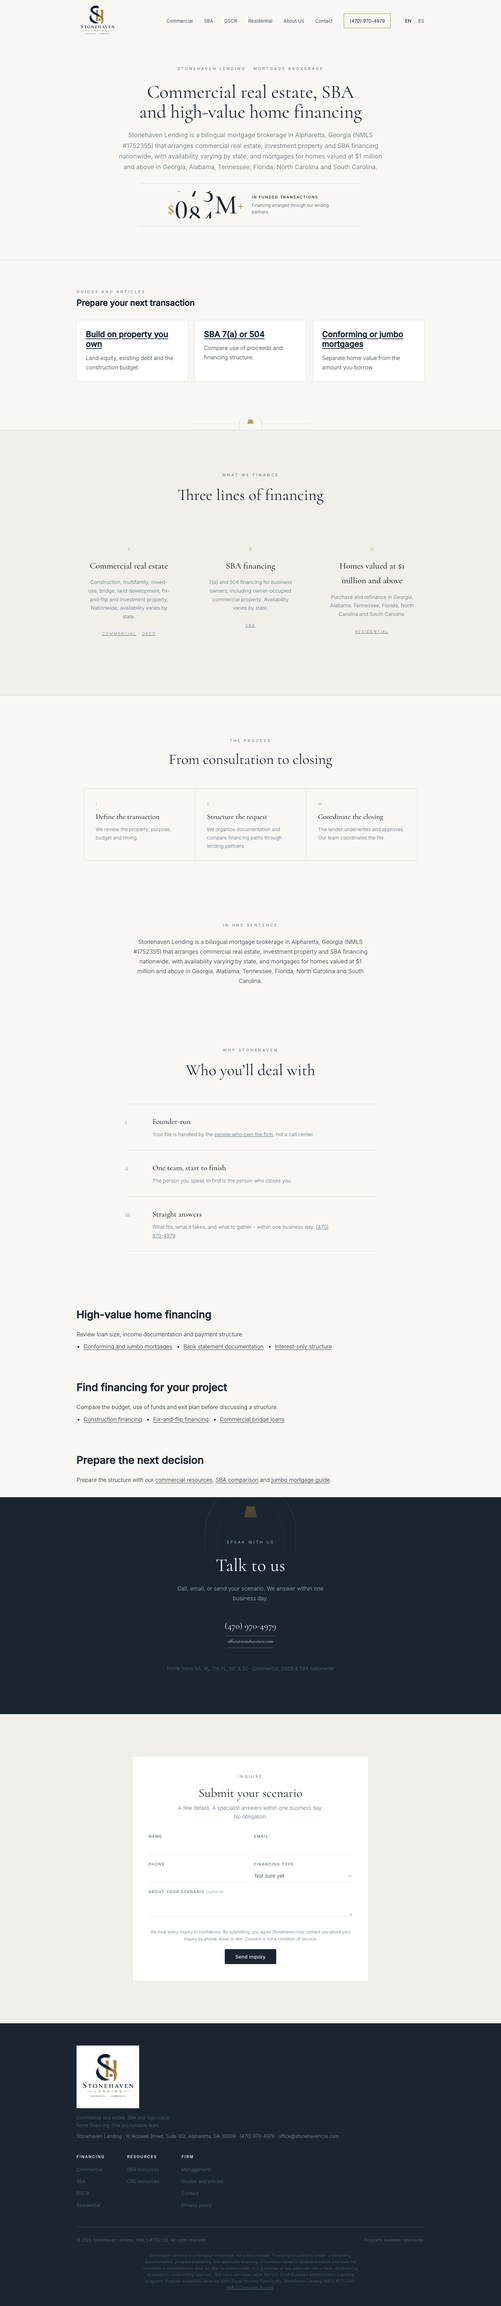
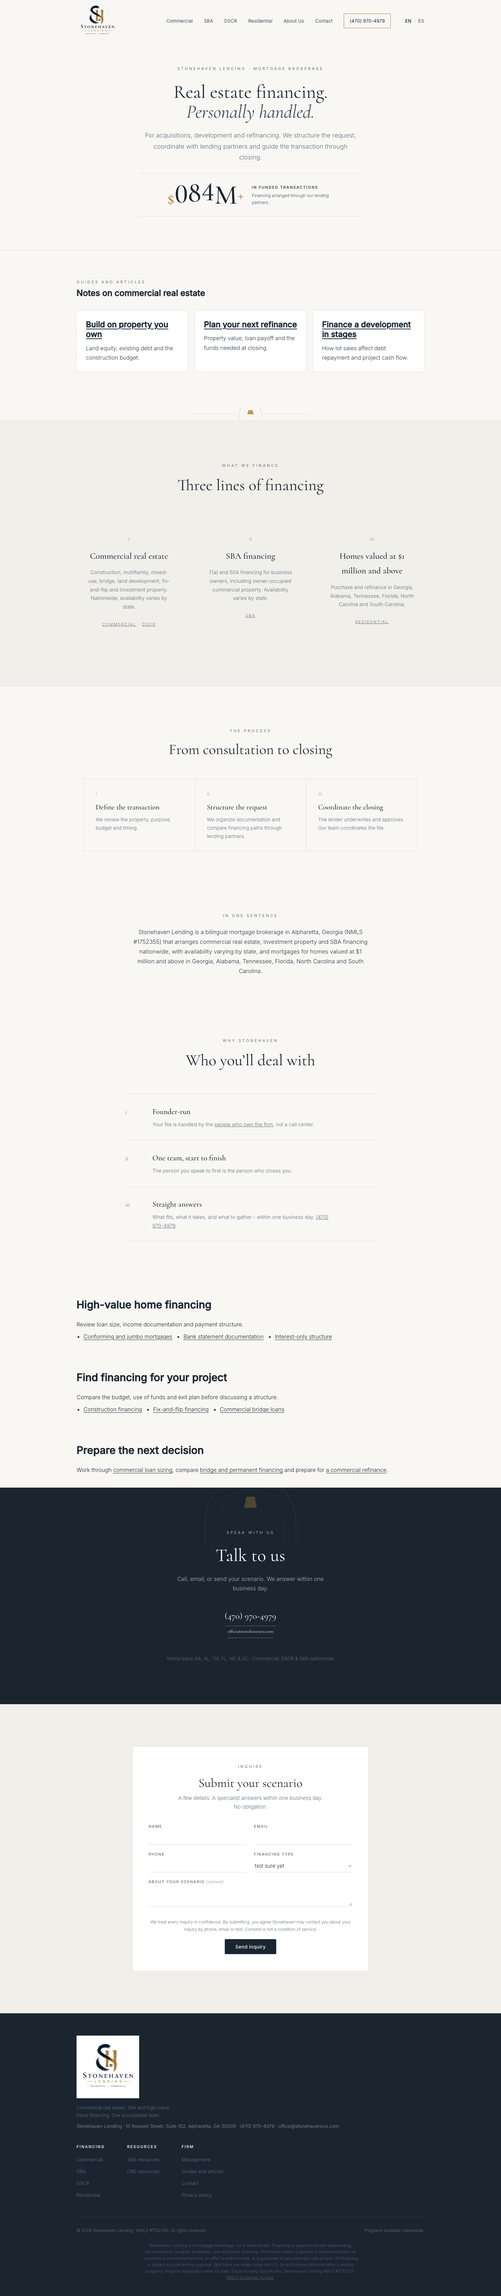
Refine homepage introduction and feature commercial real estate articles

diff --git a/es/index.html b/es/index.html
@@ -58,7 +58,7 @@
   </div>
 </header>
 <main>
-<section class="page-hero"><span class="eyebrow">Stonehaven Lending · Correduría hipotecaria</span><h1>Financiamiento comercial, SBA y para viviendas de alto valor</h1><p class="positioning-intro">Stonehaven Lending es una correduría hipotecaria bilingüe en Alpharetta, Georgia (NMLS #1752355) que tramita financiamiento inmobiliario comercial, para propiedades de inversión y SBA a nivel nacional, con disponibilidad que varía por estado, e hipotecas para viviendas valoradas en $1 millón o más en Georgia, Alabama, Tennessee, Florida, Carolina del Norte y Carolina del Sur.</p><div class="funded-volume" data-funded-volume><span class="funded-accessible">Más de 220 millones de dólares en operaciones financiadas.</span><div class="funded-value" aria-hidden="true"><span class="funded-currency">$</span><span class="funded-digit">2</span><span class="funded-digit">2</span><span class="funded-digit">0</span><span>M</span><span class="funded-plus">+</span></div><div class="funded-copy"><strong>en operaciones financiadas</strong><small>Financiamiento gestionado a través de nuestros socios prestamistas.</small></div></div></section><section class="tight seo-resources positioning-guides"><div class="wrap"><span class="eyebrow">Guías y artículos</span><h2>Prepare su próxima transacción</h2><div class="seo-resource-grid"><article><h3><a href="/es/blog/construction-loan-property-already-owned-mortgage-payoff">Construir en propiedad propia</a></h3><p>Patrimonio, saldo existente y presupuesto de obra.</p></article><article><h3><a href="/resources/sba-7a-vs-504">SBA 7(a) o 504</a></h3><p>Compare el uso de los fondos y la estructura.</p></article><article><h3><a href="/es/residential/jumbo-loans">Hipotecas conformes o jumbo</a></h3><p>Distinga el valor de la vivienda del monto del préstamo.</p></article></div></div></section>
+<section class="page-hero home-intro"><span class="eyebrow">Stonehaven Lending · Correduría hipotecaria</span><h1>Financiamiento inmobiliario.<br><em>Atención personal.</em></h1><p class="positioning-intro">Para adquisiciones, desarrollo y refinanciamiento. Estructuramos la solicitud, coordinamos con los prestamistas y acompañamos la operación hasta el cierre.</p><div class="funded-volume" data-funded-volume><span class="funded-accessible">Más de 220 millones de dólares en operaciones financiadas.</span><div class="funded-value" aria-hidden="true"><span class="funded-currency">$</span><span class="funded-digit">2</span><span class="funded-digit">2</span><span class="funded-digit">0</span><span>M</span><span class="funded-plus">+</span></div><div class="funded-copy"><strong>en operaciones financiadas</strong><small>Financiamiento gestionado a través de nuestros socios prestamistas.</small></div></div></section><section class="tight seo-resources positioning-guides"><div class="wrap"><span class="eyebrow">Guías y artículos</span><h2>Guías de financiamiento comercial</h2><div class="seo-resource-grid"><article><h3><a href="/es/blog/construction-loan-property-already-owned-mortgage-payoff">Construir en propiedad propia</a></h3><p>Patrimonio, deuda existente y presupuesto de obra.</p></article><article><h3><a href="/es/blog/commercial-refinance-cash-in-gap">Prepare el próximo refinanciamiento</a></h3><p>Valor del inmueble, saldo pendiente y fondos al cierre.</p></article><article><h3><a href="/es/blog/subdivision-loan-lot-release-prices">Financiar un desarrollo por etapas</a></h3><p>Cómo la venta de lotes afecta la deuda y el flujo de efectivo.</p></article></div></div></section>
 <div class="wrap"><div class="arch-rule reveal"><span class="l"></span>
 <svg width="78" height="34" viewBox="0 0 78 34" fill="none" aria-hidden="true"><path d="M6 34 V20 A33 33 0 0 1 72 20 V34" stroke="#CDD6E0" stroke-width="1.2"/><path d="M33 5 L45 5 L48 17 L30 17 Z" fill="#B08230" opacity=".8"/></svg>
 <span class="l"></span></div></div><section class="practice" id="lines"><div class="wrap"><div class="head"><span class="eyebrow">Qué financiamos</span><h2>Tres líneas de financiamiento</h2></div><div class="pillars positioning-pillars"><article class="pillar"><div class="pn">i</div><h3>Financiamiento inmobiliario comercial</h3><p>Construcción, multifamiliar, uso mixto, préstamos puente, desarrollo de terrenos, renovación y reventa y propiedades de inversión. A nivel nacional; la disponibilidad varía por estado.</p><div class="more"><a href="/es/commercial">Comercial</a> · <a href="/es/dscr">DSCR</a></div></article><article class="pillar"><div class="pn">ii</div><h3>Financiamiento SBA</h3><p>Financiamiento 7(a) y 504 para propietarios de negocios, incluidos inmuebles comerciales ocupados por el negocio. La disponibilidad varía por estado.</p><div class="more"><a href="/es/sba">SBA</a></div></article><article class="pillar"><div class="pn">iii</div><h3>Viviendas de $1 millón o más</h3><p>Compra y refinanciamiento en Georgia, Alabama, Tennessee, Florida, Carolina del Norte y Carolina del Sur.</p><div class="more"><a href="/es/residential">Residencial</a></div></article></div></div></section><section class="uses"><div class="wrap"><div class="head"><span class="eyebrow">El proceso</span><h2>De la consulta al cierre</h2></div><div class="use-grid"><div class="use"><div class="un">i</div><h3>Definir la transacción</h3><p>Revisamos el inmueble, el objetivo, el presupuesto y el calendario.</p></div><div class="use"><div class="un">ii</div><h3>Estructurar la solicitud</h3><p>Organizamos la documentación y comparamos opciones mediante prestamistas.</p></div><div class="use"><div class="un">iii</div><h3>Coordinar el cierre</h3><p>El prestamista evalúa y aprueba. Nuestro equipo coordina el expediente.</p></div></div></div></section>
@@ -67,7 +67,7 @@
 
 <!-- SEARCH-NAV:PROGRAMS:START --><section class="wrap search-topics"><h2>Financiamiento de viviendas de alto valor</h2><p>Revise el monto del préstamo, la documentación de ingresos y la estructura de pagos.</p><ul class="search-program-links"><li><a href="/es/residential/jumbo-loans">Hipotecas conformes y jumbo</a></li><li><a href="/es/bank-statement-loans">Documentación con estados de cuenta</a></li><li><a href="/es/interest-only-loans">Estructura de solo intereses</a></li></ul></section><!-- SEARCH-NAV:PROGRAMS:END -->
 <!-- SEARCH-NAV:CRE:START --><section class="wrap search-topics"><h2>Encuentre financiamiento para su proyecto</h2><p>Compare el presupuesto, el uso de los fondos y el plan de salida antes de discutir una estructura.</p><ul class="search-program-links"><li><a href="/es/commercial/construction-loans">Financiamiento para construcción</a></li><li><a href="/es/commercial/fix-and-flip">Capital para renovación y reventa</a></li><li><a href="/es/commercial/bridge-loans">Préstamos puente comerciales</a></li></ul></section><!-- SEARCH-NAV:CRE:END -->
-<!-- SEARCH-NAV:CONTEXT:START --><section class="wrap search-topics search-context"><h2>Prepare la siguiente decisión</h2><p>Prepare la estructura con las <a href="/resources/commercial">guías comerciales (en inglés)</a>, la <a href="/resources/sba-7a-vs-504">comparación SBA (en inglés)</a> y la <a href="/es/residential/jumbo-loans">guía de hipotecas jumbo</a>.</p></section><!-- SEARCH-NAV:CONTEXT:END -->
+<!-- SEARCH-NAV:CONTEXT:START --><section class="wrap search-topics search-context"><h2>Prepare la siguiente decisión</h2><p>Revise el <a href="/resources/how-lenders-size-commercial-loans">cálculo del préstamo comercial (en inglés)</a>, la <a href="/resources/bridge-vs-permanent-financing">comparación entre financiamiento puente y permanente (en inglés)</a> y la <a href="/resources/commercial-refinance-guide">guía de refinanciamiento comercial (en inglés)</a>.</p></section><!-- SEARCH-NAV:CONTEXT:END -->
 </main>
 <section class="contact-band">
   <svg class="arch-deco" width="340" height="170" viewBox="0 0 340 170" fill="none" aria-hidden="true"><path d="M40 170 V96 A130 130 0 0 1 300 96 V170" stroke="#3A4A5A" stroke-width="1.2"/><path d="M76 170 V100 A94 94 0 0 1 264 100 V170" stroke="#3A4A5A" stroke-width="1" opacity=".6"/><path d="M158 26 L182 26 L188 58 L152 58 Z" fill="#B08230" opacity=".7"/></svg>

diff --git a/index.html b/index.html
@@ -60,7 +60,7 @@
   </div>
 </header>
 <main>
-<section class="page-hero"><span class="eyebrow">Stonehaven Lending · Mortgage brokerage</span><h1>Commercial real estate, SBA and high-value home financing</h1><p class="positioning-intro">Stonehaven Lending is a bilingual mortgage brokerage in Alpharetta, Georgia (NMLS #1752355) that arranges commercial real estate, investment property and SBA financing nationwide, with availability varying by state, and mortgages for homes valued at $1 million and above in Georgia, Alabama, Tennessee, Florida, North Carolina and South Carolina.</p><div class="funded-volume" data-funded-volume><span class="funded-accessible">Over 220 million dollars in funded transactions.</span><div class="funded-value" aria-hidden="true"><span class="funded-currency">$</span><span class="funded-digit">2</span><span class="funded-digit">2</span><span class="funded-digit">0</span><span>M</span><span class="funded-plus">+</span></div><div class="funded-copy"><strong>in funded transactions</strong><small>Financing arranged through our lending partners.</small></div></div></section><section class="tight seo-resources positioning-guides"><div class="wrap"><span class="eyebrow">Guides and articles</span><h2>Prepare your next transaction</h2><div class="seo-resource-grid"><article><h3><a href="/blog/construction-loan-property-already-owned-mortgage-payoff">Build on property you own</a></h3><p>Land equity, existing debt and the construction budget.</p></article><article><h3><a href="/resources/sba-7a-vs-504">SBA 7(a) or 504</a></h3><p>Compare use of proceeds and financing structure.</p></article><article><h3><a href="/residential/jumbo-loans">Conforming or jumbo mortgages</a></h3><p>Separate home value from the amount you borrow.</p></article></div></div></section>
+<section class="page-hero home-intro"><span class="eyebrow">Stonehaven Lending · Mortgage brokerage</span><h1>Real estate financing.<br><em>Personally handled.</em></h1><p class="positioning-intro">For acquisitions, development and refinancing. We structure the request, coordinate with lending partners and guide the transaction through closing.</p><div class="funded-volume" data-funded-volume><span class="funded-accessible">Over 220 million dollars in funded transactions.</span><div class="funded-value" aria-hidden="true"><span class="funded-currency">$</span><span class="funded-digit">2</span><span class="funded-digit">2</span><span class="funded-digit">0</span><span>M</span><span class="funded-plus">+</span></div><div class="funded-copy"><strong>in funded transactions</strong><small>Financing arranged through our lending partners.</small></div></div></section><section class="tight seo-resources positioning-guides"><div class="wrap"><span class="eyebrow">Guides and articles</span><h2>Notes on commercial real estate</h2><div class="seo-resource-grid"><article><h3><a href="/blog/construction-loan-property-already-owned-mortgage-payoff">Build on property you own</a></h3><p>Land equity, existing debt and the construction budget.</p></article><article><h3><a href="/blog/commercial-refinance-cash-in-gap">Plan your next refinance</a></h3><p>Property value, loan payoff and the funds needed at closing.</p></article><article><h3><a href="/blog/subdivision-loan-lot-release-prices">Finance a development in stages</a></h3><p>How lot sales affect debt repayment and project cash flow.</p></article></div></div></section>
 <div class="wrap"><div class="arch-rule reveal"><span class="l"></span>
 <svg width="78" height="34" viewBox="0 0 78 34" fill="none" aria-hidden="true"><path d="M6 34 V20 A33 33 0 0 1 72 20 V34" stroke="#CDD6E0" stroke-width="1.2"/><path d="M33 5 L45 5 L48 17 L30 17 Z" fill="#B08230" opacity=".8"/></svg>
 <span class="l"></span></div></div><section class="practice" id="lines"><div class="wrap"><div class="head"><span class="eyebrow">What we finance</span><h2>Three lines of financing</h2></div><div class="pillars positioning-pillars"><article class="pillar"><div class="pn">i</div><h3>Commercial real estate</h3><p>Construction, multifamily, mixed-use, bridge, land development, fix-and-flip and investment property. Nationwide, availability varies by state.</p><div class="more"><a href="/commercial">Commercial</a> · <a href="/dscr">DSCR</a></div></article><article class="pillar"><div class="pn">ii</div><h3>SBA financing</h3><p>7(a) and 504 financing for business owners, including owner-occupied commercial property. Availability varies by state.</p><div class="more"><a href="/sba">SBA</a></div></article><article class="pillar"><div class="pn">iii</div><h3>Homes valued at $1 million and above</h3><p>Purchase and refinance in Georgia, Alabama, Tennessee, Florida, North Carolina and South Carolina.</p><div class="more"><a href="/residential">Residential</a></div></article></div></div></section><section class="uses"><div class="wrap"><div class="head"><span class="eyebrow">The process</span><h2>From consultation to closing</h2></div><div class="use-grid"><div class="use"><div class="un">i</div><h3>Define the transaction</h3><p>We review the property, purpose, budget and timing.</p></div><div class="use"><div class="un">ii</div><h3>Structure the request</h3><p>We organize documentation and compare financing paths through lending partners.</p></div><div class="use"><div class="un">iii</div><h3>Coordinate the closing</h3><p>The lender underwrites and approves. Our team coordinates the file.</p></div></div></div></section>
@@ -69,7 +69,7 @@
 
 <!-- SEARCH-NAV:PROGRAMS:START --><section class="wrap search-topics"><h2>High-value home financing</h2><p>Review loan size, income documentation and payment structure.</p><ul class="search-program-links"><li><a href="/residential/jumbo-loans">Conforming and jumbo mortgages</a></li><li><a href="/bank-statement-loans">Bank statement documentation</a></li><li><a href="/interest-only-loans">Interest-only structure</a></li></ul></section><!-- SEARCH-NAV:PROGRAMS:END -->
 <!-- SEARCH-NAV:CRE:START --><section class="wrap search-topics"><h2>Find financing for your project</h2><p>Compare the budget, use of funds and exit plan before discussing a structure.</p><ul class="search-program-links"><li><a href="/commercial/construction-loans">Construction financing</a></li><li><a href="/commercial/fix-and-flip">Fix-and-flip financing</a></li><li><a href="/commercial/bridge-loans">Commercial bridge loans</a></li></ul></section><!-- SEARCH-NAV:CRE:END -->
-<!-- SEARCH-NAV:CONTEXT:START --><section class="wrap search-topics search-context"><h2>Prepare the next decision</h2><p>Prepare the structure with our <a href="/resources/commercial">commercial resources</a>, <a href="/resources/sba-7a-vs-504">SBA comparison</a> and <a href="/residential/jumbo-loans">jumbo mortgage guide</a>.</p></section><!-- SEARCH-NAV:CONTEXT:END -->
+<!-- SEARCH-NAV:CONTEXT:START --><section class="wrap search-topics search-context"><h2>Prepare the next decision</h2><p>Work through <a href="/resources/how-lenders-size-commercial-loans">commercial loan sizing</a>, compare <a href="/resources/bridge-vs-permanent-financing">bridge and permanent financing</a> and prepare for <a href="/resources/commercial-refinance-guide">a commercial refinance</a>.</p></section><!-- SEARCH-NAV:CONTEXT:END -->
 </main>
 <section class="contact-band">
   <svg class="arch-deco" width="340" height="170" viewBox="0 0 340 170" fill="none" aria-hidden="true"><path d="M40 170 V96 A130 130 0 0 1 300 96 V170" stroke="#3A4A5A" stroke-width="1.2"/><path d="M76 170 V100 A94 94 0 0 1 264 100 V170" stroke="#3A4A5A" stroke-width="1" opacity=".6"/><path d="M158 26 L182 26 L188 58 L152 58 Z" fill="#B08230" opacity=".7"/></svg>

diff --git a/scripts/positioning-templates/es-home.html b/scripts/positioning-templates/es-home.html
@@ -58,7 +58,7 @@
   </div>
 </header>
 <main>
-<section class="page-hero"><span class="eyebrow">Stonehaven Lending · Correduría hipotecaria</span><h1>Financiamiento comercial, SBA y para viviendas de alto valor</h1><p class="positioning-intro">Stonehaven Lending es una correduría hipotecaria bilingüe en Alpharetta, Georgia (NMLS #1752355) que tramita financiamiento inmobiliario comercial, para propiedades de inversión y SBA a nivel nacional, con disponibilidad que varía por estado, e hipotecas para viviendas valoradas en $1 millón o más en Georgia, Alabama, Tennessee, Florida, Carolina del Norte y Carolina del Sur.</p><div class="funded-volume" data-funded-volume><span class="funded-accessible">Más de 220 millones de dólares en operaciones financiadas.</span><div class="funded-value" aria-hidden="true"><span class="funded-currency">$</span><span class="funded-digit">2</span><span class="funded-digit">2</span><span class="funded-digit">0</span><span>M</span><span class="funded-plus">+</span></div><div class="funded-copy"><strong>en operaciones financiadas</strong><small>Financiamiento gestionado a través de nuestros socios prestamistas.</small></div></div></section><section class="tight seo-resources positioning-guides"><div class="wrap"><span class="eyebrow">Guías y artículos</span><h2>Prepare su próxima transacción</h2><div class="seo-resource-grid"><article><h3><a href="/es/blog/construction-loan-property-already-owned-mortgage-payoff">Construir en propiedad propia</a></h3><p>Patrimonio, saldo existente y presupuesto de obra.</p></article><article><h3><a href="/resources/sba-7a-vs-504">SBA 7(a) o 504</a></h3><p>Compare el uso de los fondos y la estructura.</p></article><article><h3><a href="/es/residential/jumbo-loans">Hipotecas conformes o jumbo</a></h3><p>Distinga el valor de la vivienda del monto del préstamo.</p></article></div></div></section>
+<section class="page-hero home-intro"><span class="eyebrow">Stonehaven Lending · Correduría hipotecaria</span><h1>Financiamiento inmobiliario.<br><em>Atención personal.</em></h1><p class="positioning-intro">Para adquisiciones, desarrollo y refinanciamiento. Estructuramos la solicitud, coordinamos con los prestamistas y acompañamos la operación hasta el cierre.</p><div class="funded-volume" data-funded-volume><span class="funded-accessible">Más de 220 millones de dólares en operaciones financiadas.</span><div class="funded-value" aria-hidden="true"><span class="funded-currency">$</span><span class="funded-digit">2</span><span class="funded-digit">2</span><span class="funded-digit">0</span><span>M</span><span class="funded-plus">+</span></div><div class="funded-copy"><strong>en operaciones financiadas</strong><small>Financiamiento gestionado a través de nuestros socios prestamistas.</small></div></div></section><section class="tight seo-resources positioning-guides"><div class="wrap"><span class="eyebrow">Guías y artículos</span><h2>Guías de financiamiento comercial</h2><div class="seo-resource-grid"><article><h3><a href="/es/blog/construction-loan-property-already-owned-mortgage-payoff">Construir en propiedad propia</a></h3><p>Patrimonio, deuda existente y presupuesto de obra.</p></article><article><h3><a href="/es/blog/commercial-refinance-cash-in-gap">Prepare el próximo refinanciamiento</a></h3><p>Valor del inmueble, saldo pendiente y fondos al cierre.</p></article><article><h3><a href="/es/blog/subdivision-loan-lot-release-prices">Financiar un desarrollo por etapas</a></h3><p>Cómo la venta de lotes afecta la deuda y el flujo de efectivo.</p></article></div></div></section>
 <div class="wrap"><div class="arch-rule reveal"><span class="l"></span>
 <svg width="78" height="34" viewBox="0 0 78 34" fill="none" aria-hidden="true"><path d="M6 34 V20 A33 33 0 0 1 72 20 V34" stroke="#CDD6E0" stroke-width="1.2"/><path d="M33 5 L45 5 L48 17 L30 17 Z" fill="#B08230" opacity=".8"/></svg>
 <span class="l"></span></div></div><section class="practice" id="lines"><div class="wrap"><div class="head"><span class="eyebrow">Qué financiamos</span><h2>Tres líneas de financiamiento</h2></div><div class="pillars positioning-pillars"><article class="pillar"><div class="pn">i</div><h3>Financiamiento inmobiliario comercial</h3><p>Construcción, multifamiliar, uso mixto, préstamos puente, desarrollo de terrenos, renovación y reventa y propiedades de inversión. A nivel nacional; la disponibilidad varía por estado.</p><div class="more"><a href="/es/commercial">Comercial</a> · <a href="/es/dscr">DSCR</a></div></article><article class="pillar"><div class="pn">ii</div><h3>Financiamiento SBA</h3><p>Financiamiento 7(a) y 504 para propietarios de negocios, incluidos inmuebles comerciales ocupados por el negocio. La disponibilidad varía por estado.</p><div class="more"><a href="/es/sba">SBA</a></div></article><article class="pillar"><div class="pn">iii</div><h3>Viviendas de $1 millón o más</h3><p>Compra y refinanciamiento en Georgia, Alabama, Tennessee, Florida, Carolina del Norte y Carolina del Sur.</p><div class="more"><a href="/es/residential">Residencial</a></div></article></div></div></section><section class="uses"><div class="wrap"><div class="head"><span class="eyebrow">El proceso</span><h2>De la consulta al cierre</h2></div><div class="use-grid"><div class="use"><div class="un">i</div><h3>Definir la transacción</h3><p>Revisamos el inmueble, el objetivo, el presupuesto y el calendario.</p></div><div class="use"><div class="un">ii</div><h3>Estructurar la solicitud</h3><p>Organizamos la documentación y comparamos opciones mediante prestamistas.</p></div><div class="use"><div class="un">iii</div><h3>Coordinar el cierre</h3><p>El prestamista evalúa y aprueba. Nuestro equipo coordina el expediente.</p></div></div></div></section>

diff --git a/scripts/positioning-templates/en-home.html b/scripts/positioning-templates/en-home.html
@@ -60,7 +60,7 @@
   </div>
 </header>
 <main>
-<section class="page-hero"><span class="eyebrow">Stonehaven Lending · Mortgage brokerage</span><h1>Commercial real estate, SBA and high-value home financing</h1><p class="positioning-intro">Stonehaven Lending is a bilingual mortgage brokerage in Alpharetta, Georgia (NMLS #1752355) that arranges commercial real estate, investment property and SBA financing nationwide, with availability varying by state, and mortgages for homes valued at $1 million and above in Georgia, Alabama, Tennessee, Florida, North Carolina and South Carolina.</p><div class="funded-volume" data-funded-volume><span class="funded-accessible">Over 220 million dollars in funded transactions.</span><div class="funded-value" aria-hidden="true"><span class="funded-currency">$</span><span class="funded-digit">2</span><span class="funded-digit">2</span><span class="funded-digit">0</span><span>M</span><span class="funded-plus">+</span></div><div class="funded-copy"><strong>in funded transactions</strong><small>Financing arranged through our lending partners.</small></div></div></section><section class="tight seo-resources positioning-guides"><div class="wrap"><span class="eyebrow">Guides and articles</span><h2>Prepare your next transaction</h2><div class="seo-resource-grid"><article><h3><a href="/blog/construction-loan-property-already-owned-mortgage-payoff">Build on property you own</a></h3><p>Land equity, existing debt and the construction budget.</p></article><article><h3><a href="/resources/sba-7a-vs-504">SBA 7(a) or 504</a></h3><p>Compare use of proceeds and financing structure.</p></article><article><h3><a href="/residential/jumbo-loans">Conforming or jumbo mortgages</a></h3><p>Separate home value from the amount you borrow.</p></article></div></div></section>
+<section class="page-hero home-intro"><span class="eyebrow">Stonehaven Lending · Mortgage brokerage</span><h1>Real estate financing.<br><em>Personally handled.</em></h1><p class="positioning-intro">For acquisitions, development and refinancing. We structure the request, coordinate with lending partners and guide the transaction through closing.</p><div class="funded-volume" data-funded-volume><span class="funded-accessible">Over 220 million dollars in funded transactions.</span><div class="funded-value" aria-hidden="true"><span class="funded-currency">$</span><span class="funded-digit">2</span><span class="funded-digit">2</span><span class="funded-digit">0</span><span>M</span><span class="funded-plus">+</span></div><div class="funded-copy"><strong>in funded transactions</strong><small>Financing arranged through our lending partners.</small></div></div></section><section class="tight seo-resources positioning-guides"><div class="wrap"><span class="eyebrow">Guides and articles</span><h2>Notes on commercial real estate</h2><div class="seo-resource-grid"><article><h3><a href="/blog/construction-loan-property-already-owned-mortgage-payoff">Build on property you own</a></h3><p>Land equity, existing debt and the construction budget.</p></article><article><h3><a href="/blog/commercial-refinance-cash-in-gap">Plan your next refinance</a></h3><p>Property value, loan payoff and the funds needed at closing.</p></article><article><h3><a href="/blog/subdivision-loan-lot-release-prices">Finance a development in stages</a></h3><p>How lot sales affect debt repayment and project cash flow.</p></article></div></div></section>
 <div class="wrap"><div class="arch-rule reveal"><span class="l"></span>
 <svg width="78" height="34" viewBox="0 0 78 34" fill="none" aria-hidden="true"><path d="M6 34 V20 A33 33 0 0 1 72 20 V34" stroke="#CDD6E0" stroke-width="1.2"/><path d="M33 5 L45 5 L48 17 L30 17 Z" fill="#B08230" opacity=".8"/></svg>
 <span class="l"></span></div></div><section class="practice" id="lines"><div class="wrap"><div class="head"><span class="eyebrow">What we finance</span><h2>Three lines of financing</h2></div><div class="pillars positioning-pillars"><article class="pillar"><div class="pn">i</div><h3>Commercial real estate</h3><p>Construction, multifamily, mixed-use, bridge, land development, fix-and-flip and investment property. Nationwide, availability varies by state.</p><div class="more"><a href="/commercial">Commercial</a> · <a href="/dscr">DSCR</a></div></article><article class="pillar"><div class="pn">ii</div><h3>SBA financing</h3><p>7(a) and 504 financing for business owners, including owner-occupied commercial property. Availability varies by state.</p><div class="more"><a href="/sba">SBA</a></div></article><article class="pillar"><div class="pn">iii</div><h3>Homes valued at $1 million and above</h3><p>Purchase and refinance in Georgia, Alabama, Tennessee, Florida, North Carolina and South Carolina.</p><div class="more"><a href="/residential">Residential</a></div></article></div></div></section><section class="uses"><div class="wrap"><div class="head"><span class="eyebrow">The process</span><h2>From consultation to closing</h2></div><div class="use-grid"><div class="use"><div class="un">i</div><h3>Define the transaction</h3><p>We review the property, purpose, budget and timing.</p></div><div class="use"><div class="un">ii</div><h3>Structure the request</h3><p>We organize documentation and compare financing paths through lending partners.</p></div><div class="use"><div class="un">iii</div><h3>Coordinate the closing</h3><p>The lender underwrites and approves. Our team coordinates the file.</p></div></div></div></section>

diff --git a/styles.css b/styles.css
@@ -384,3 +384,7 @@ header.nav .brand img{width:120px;height:120px;object-fit:contain;mix-blend-mode
 
 .positioning-guides .seo-resource-grid{grid-template-columns:repeat(3,minmax(0,1fr))}
 @media(max-width:760px){.positioning-guides .seo-resource-grid{grid-template-columns:1fr}}
+
+/* Owner refinement: a quieter homepage introduction. */
+.home-intro h1{max-width:900px;margin-left:auto;margin-right:auto;text-wrap:balance}
+.page-hero.home-intro p.positioning-intro{max-width:660px;line-height:1.75}

diff --git a/scripts/seo_contextual_links.py b/scripts/seo_contextual_links.py
@@ -98,8 +98,8 @@ def reading_paths(pages, local, es):
         return link(pages, path, label)
     paragraphs = []
     if local == '/':
-        paragraphs.append(('Prepare la estructura con las '+a('/resources/commercial', 'commercial resources', 'guías comerciales')+', la '+a('/resources/sba-7a-vs-504', 'SBA comparison', 'comparación SBA')+' y la '+a('/residential/jumbo-loans', 'jumbo mortgage guide', 'guía de hipotecas jumbo')+'.') if es else
-                          'Prepare the structure with our '+a('/resources/commercial', 'commercial resources')+', '+a('/resources/sba-7a-vs-504', 'SBA comparison')+' and '+a('/residential/jumbo-loans', 'jumbo mortgage guide')+'.')
+        paragraphs.append(('Revise el '+a('/resources/how-lenders-size-commercial-loans', 'commercial loan sizing guide', 'cálculo del préstamo comercial')+', la '+a('/resources/bridge-vs-permanent-financing', 'bridge and permanent financing comparison', 'comparación entre financiamiento puente y permanente')+' y la '+a('/resources/commercial-refinance-guide', 'commercial refinance guide', 'guía de refinanciamiento comercial')+'.') if es else
+                          'Work through '+a('/resources/how-lenders-size-commercial-loans', 'commercial loan sizing')+', compare '+a('/resources/bridge-vs-permanent-financing', 'bridge and permanent financing')+' and prepare for '+a('/resources/commercial-refinance-guide', 'a commercial refinance')+'.')
     heading = 'Prepare la siguiente decisión' if es else 'Prepare the next decision'
     if local in ['/heloc', '/heloc-planning-tools', '/blog/heloc-preparation-checklist']:
         paragraphs.append(('Antes de comprometer el dinero, revise '+a('/blog/heloc-closing-timeline-cancellation-period', 'when HELOC funds become usable', 'cuándo puede usar los fondos del HELOC')+', '+a('/blog/heloc-freeze-credit-line-reduction-plan', 'what a restricted credit line means for a project', 'cómo afecta una restricción de la línea a su proyecto')+' y '+a('/blog/refinance-first-mortgage-keep-heloc-subordination', 'keeping a HELOC when refinancing the first mortgage', 'cómo conservar el HELOC al refinanciar la primera hipoteca')+'.') if es else

diff --git a/docs/seo-implementation/2026-09-28-link-audit.md b/docs/seo-implementation/2026-09-28-link-audit.md
@@ -6,7 +6,7 @@ Baseline: `f82326d` (latest origin/main when work began). Release: pending owner
 
 Before: `/`, `/bank-statement-loans`, `/blog`, `/blog/georgia-heloc-questions`, `/blog/heloc-preparation-checklist`, `/blog/heloc-vs-cash-out-refinance`, `/blog/how-much-home-equity-can-i-borrow`, `/commercial`, `/commercial/bridge-loans`, `/commercial/construction-loans`, `/commercial/fix-and-flip`, `/contact`, `/dscr`, `/es`, `/heloc`, `/interest-only-loans`, `/management`, `/privacy`, `/residential`, `/resources/commercial`, `/resources/first-time-property-investor`, `/resources/residential`, `/resources/sba`, `/sba`
 
-After: `/`, `/bank-statement-loans`, `/blog`, `/blog/construction-loan-property-already-owned-mortgage-payoff`, `/commercial`, `/commercial/bridge-loans`, `/commercial/construction-loans`, `/commercial/fix-and-flip`, `/contact`, `/dscr`, `/es`, `/interest-only-loans`, `/management`, `/privacy`, `/residential`, `/residential/jumbo-loans`, `/resources/commercial`, `/resources/sba`, `/resources/sba-7a-vs-504`, `/sba`
+After: `/`, `/bank-statement-loans`, `/blog`, `/blog/commercial-refinance-cash-in-gap`, `/blog/construction-loan-property-already-owned-mortgage-payoff`, `/blog/subdivision-loan-lot-release-prices`, `/commercial`, `/commercial/bridge-loans`, `/commercial/construction-loans`, `/commercial/fix-and-flip`, `/contact`, `/dscr`, `/es`, `/interest-only-loans`, `/management`, `/privacy`, `/residential`, `/residential/jumbo-loans`, `/resources/bridge-vs-permanent-financing`, `/resources/commercial`, `/resources/commercial-refinance-guide`, `/resources/how-lenders-size-commercial-loans`, `/resources/sba`, `/sba`
 
 ## index.html footer
 
@@ -18,7 +18,7 @@ After: `/blog`, `/commercial`, `/contact`, `/dscr`, `/management`, `/privacy`, `
 
 Before: `/`, `/es`, `/es/bank-statement-loans`, `/es/blog`, `/es/blog/georgia-heloc-questions`, `/es/blog/heloc-preparation-checklist`, `/es/blog/heloc-vs-cash-out-refinance`, `/es/blog/how-much-home-equity-can-i-borrow`, `/es/commercial`, `/es/commercial/bridge-loans`, `/es/commercial/construction-loans`, `/es/commercial/fix-and-flip`, `/es/contact`, `/es/dscr`, `/es/heloc`, `/es/interest-only-loans`, `/es/privacy`, `/es/residential`, `/es/resources/first-time-property-investor`, `/es/sba`, `/management`
 
-After: `/`, `/es`, `/es/bank-statement-loans`, `/es/blog`, `/es/blog/construction-loan-property-already-owned-mortgage-payoff`, `/es/commercial`, `/es/commercial/bridge-loans`, `/es/commercial/construction-loans`, `/es/commercial/fix-and-flip`, `/es/contact`, `/es/dscr`, `/es/interest-only-loans`, `/es/privacy`, `/es/residential`, `/es/residential/jumbo-loans`, `/es/sba`, `/management`, `/resources/commercial`, `/resources/sba`, `/resources/sba-7a-vs-504`
+After: `/`, `/es`, `/es/bank-statement-loans`, `/es/blog`, `/es/blog/commercial-refinance-cash-in-gap`, `/es/blog/construction-loan-property-already-owned-mortgage-payoff`, `/es/blog/subdivision-loan-lot-release-prices`, `/es/commercial`, `/es/commercial/bridge-loans`, `/es/commercial/construction-loans`, `/es/commercial/fix-and-flip`, `/es/contact`, `/es/dscr`, `/es/interest-only-loans`, `/es/privacy`, `/es/residential`, `/es/residential/jumbo-loans`, `/es/sba`, `/management`, `/resources/bridge-vs-permanent-financing`, `/resources/commercial`, `/resources/commercial-refinance-guide`, `/resources/how-lenders-size-commercial-loans`, `/resources/sba`
 
 ## es/index.html footer
 

diff --git a/docs/seo-implementation/2026-09-28-state-guides.md b/docs/seo-implementation/2026-09-28-state-guides.md
@@ -24,3 +24,5 @@ Release date remains pending. After an approved merge and verified production de
 Review PRs: [#48](https://github.com/DLECLTHNG/stonehaven-website/pull/48) and [#49](https://github.com/DLECLTHNG/stonehaven-website/pull/49). [First preview](https://deploy-preview-48--splendid-tulumba-0cbb01.netlify.app/) and [combined preview](https://deploy-preview-49--splendid-tulumba-0cbb01.netlify.app/). Both require owner approval before merging.
 
 Netlify preview handling: PR 49 targets main so the existing preview workflow runs. It includes PR 48 until that dependency is approved and merged. Rebase PR 49 onto the approved main and rerun checks before its own approved merge. No automatic merge is enabled. The attempted CLI draft did not deploy successfully and is not the review artifact.
+
+Owner preview refinement: shortened the bilingual homepage hero to a restrained real-estate-financing introduction without SBA or property-value positioning. Featured articles and the contextual reading links now cover commercial real estate only. Existing SBA program pages and navigation remain available. This supersedes the earlier prescribed hero sentence for the combined preview.
